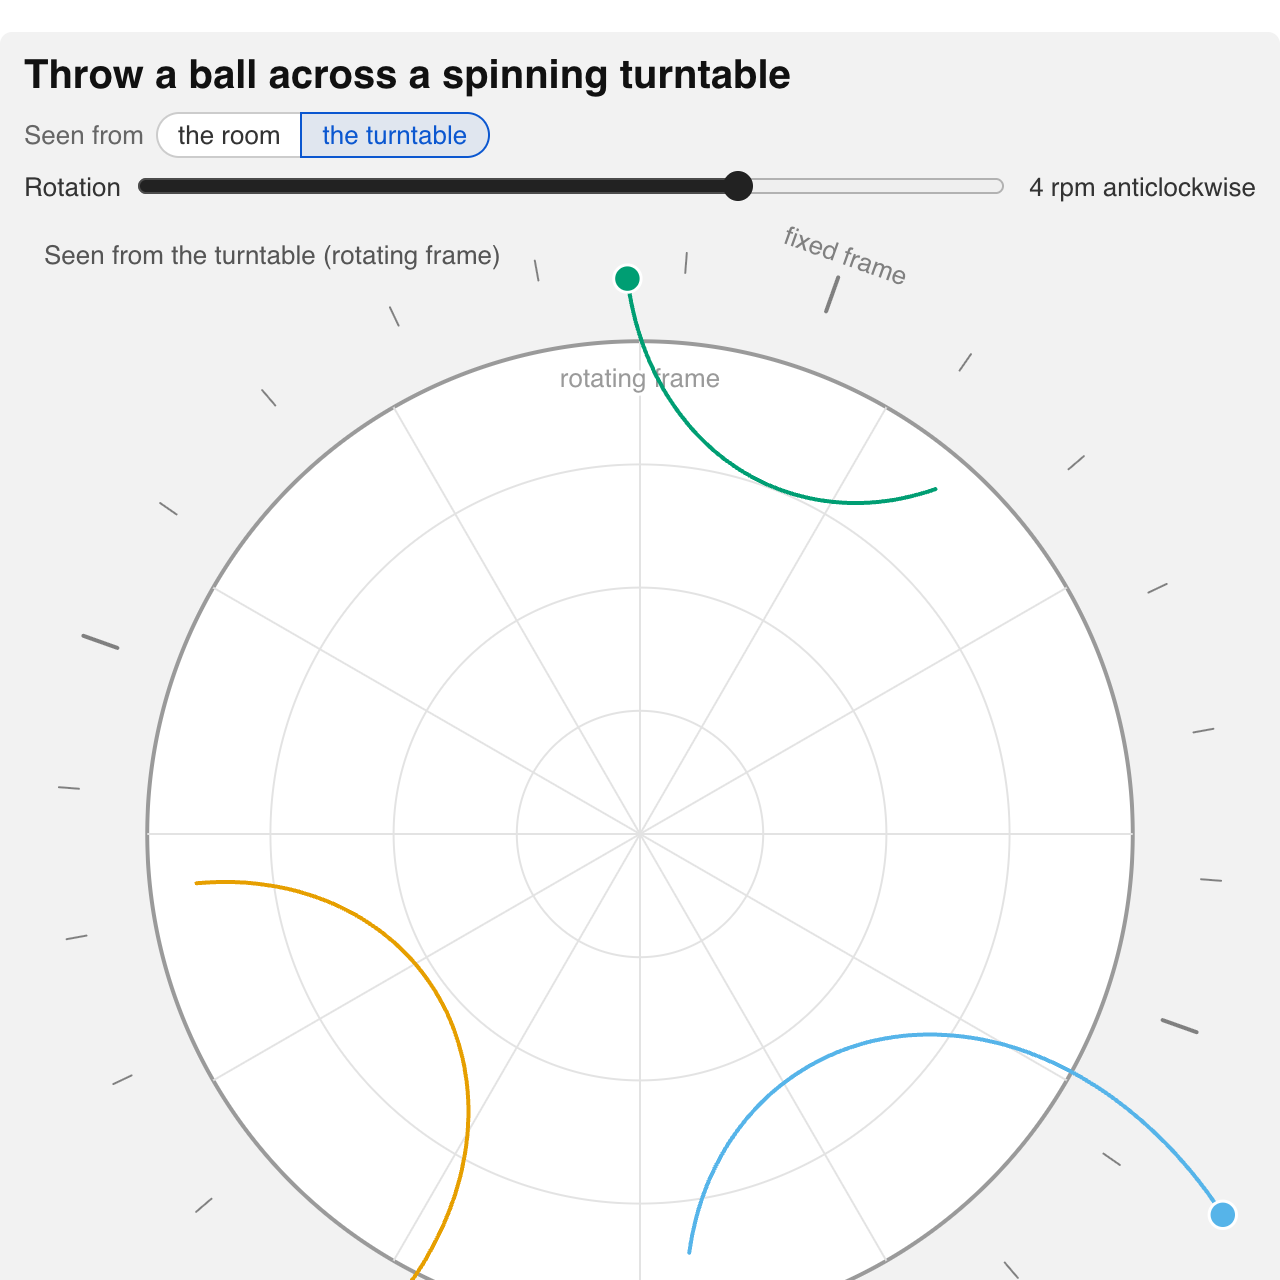
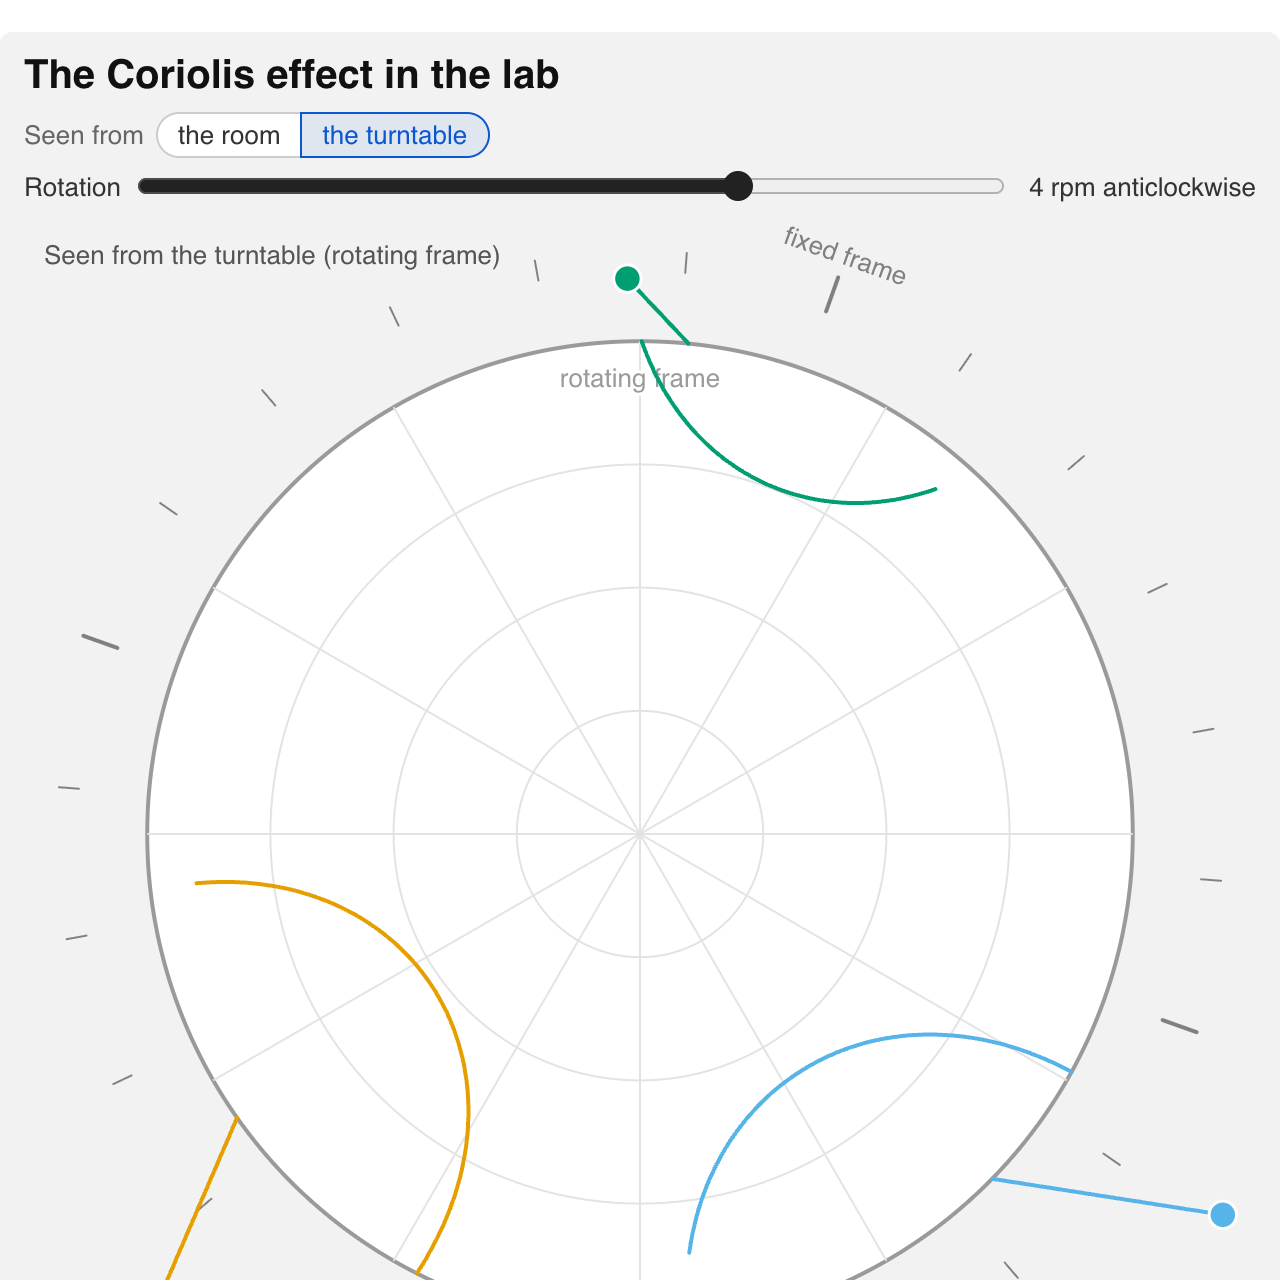
Turntable: the ball leaves paint on whatever it passes, a dashed true path, and throws that last until the ball has left
As in a lab with a wet ball: paint on the table turns with the table, paint on the floor
stays with the room. Each sample goes into the frame of whatever is under the ball, a run
of paint ends exactly at the rim and a new one starts there on the other side, and the
groups carry each frame's paint round with it. In the room view the paint on the table
curves as it is carried round while the floor's lies straight, and a dashed black line
shows the ball's actual straight path; in the turntable view the table's paint lies still
and the floor's goes round the other way. Balls sit in groups of their own so no paint
covers them.

A throw no longer has a fixed ten-second life, which cut a slow ball off before it had
even left the table: it stays until a second after the ball has left the square of the
picture and then fades over two, with a minute's cap for a ball that never leaves. The
title and note are the user's. The page describes the paint and the timing.

diff --git a/src/coriolis/widget.js b/src/coriolis/widget.js
@@ -5,12 +5,18 @@
 // speed, and that is the whole of the physics: every trajectory is x0 + v·t in inertial
 // coordinates, and the rotating view is the same points turned back by the angle the table
 // has turned through since. There is no integration and no force; the curve a rider on the
-// table sees is purely a consequence of looking from a turning platform. Both views draw
-// from the same sampled points (each sample keeps the table's angle at the time), so the
-// frame toggle switches instantly, mid-flight, and a change of rotation speed mid-flight
-// stays consistent too. Switching holds the picture where it is: the frame being let go
-// hands its screen angle to the one being taken hold of, so nothing jumps; the other frame
-// simply starts (or stops) turning.
+// table sees is purely a consequence of looking from a turning platform.
+//
+// The ball leaves paint where it passes, as in a lab: paint on the table turns with the
+// table, paint on the floor around it stays with the room. So in the room view the paint on
+// the table curves as the table carries it round while the paint on the floor lies straight,
+// and in the turntable view the paint on the table lies still while the floor's goes round
+// the other way. The room view also draws the ball's actual path, a dashed straight line,
+// while the ball is in the picture, and fades it once the ball has left. Each sample keeps
+// the table's angle at the time, so a change of rotation speed mid-flight stays consistent.
+// Switching views holds the picture where it is: the frame being let go hands its screen
+// angle to the one being taken hold of, so nothing jumps; the other frame simply starts (or
+// stops) turning.
 //
 // A throw is press, drag, release, anywhere on the figure; the ball starts where the pointer
 // went down and leaves along the drag at a speed proportional to its length. The thrower
@@ -21,8 +27,9 @@
 // table, which the room sees moving off at a tangent, and the table sees sliding outward:
 // a frictionless table cannot hold anything still.
 //
-// Up to MAX_THROWS balls at once, oldest dropped first. A trace lasts LIFE seconds and then
-// fades out over FADE more. Colours cycle through the Okabe–Ito palette, as the other
+// Up to MAX_THROWS balls at once, oldest dropped first. A throw stays until LINGER seconds
+// after its ball has left the picture and then fades out over FADE more (or after LIFE_MAX
+// seconds, for a ball that never leaves). Colours cycle through the Okabe–Ito palette, as the other
 // categorical widgets here do. Physics is in units of the disk radius and seconds, so a
 // resize mid-flight simply redraws everything at the new size.
 
@@ -36,8 +43,10 @@ const ROOM = "#808080";
 const COLORS = ["#E69F00", "#56B4E9", "#009E73", "#0072B2", "#D55E00", "#CC79A7", "#b39b00", "#000000"];
 
 const MAX_THROWS = 10;
-const LIFE = 10;         // s a trace is shown in full
-const FADE = 2;          // s it then takes to fade away
+const LINGER = 1;        // s a throw stays in full after its ball has left the picture...
+const FADE = 2;          // ...and then takes to fade away
+const LIFE_MAX = 60;     // s after which a throw fades anyway, for a ball that never leaves
+const DASH = "#222";
 const DRAG_GAIN = 2.5;   // disk radii per second of speed, per disk radius of drag
 const SPEED_MAX = 4;     // disk radii per second
 const RPM_MAX = 10;
@@ -45,6 +54,7 @@ const RPM_STEP = 0.5;
 const DISK_R = 0.40;     // disk radius as a fraction of the figure's side
 const ROOM_R = 0.465;    // the room's ring of marks
 const OUT_R = 1.9;       // disk radii from the centre beyond which a ball is out of the picture
+const HALF_SIDE = 0.5 / DISK_R; // the figure's half-side in disk radii
 
 const FIGURE_WIDTH = 640;
 const MIN_WIDTH = 320;
@@ -97,7 +107,7 @@ export function createCoriolisWidget({frame: initialFrame = "rotating", rpm: ini
 
   const title = document.createElement("div");
   title.style.cssText = "font-weight:bold;color:#111;line-height:1.2;padding:0 0 6px;";
-  title.textContent = "Throw a ball across a spinning turntable";
+  title.textContent = "The Coriolis effect in the lab";
   container.appendChild(title);
 
   // One row: the frame toggle on the left, the rotation slider on the right; they wrap onto
@@ -180,9 +190,7 @@ export function createCoriolisWidget({frame: initialFrame = "rotating", rpm: ini
   const note = document.createElement("div");
   note.style.cssText = "padding:10px 0 0;color:#888;font-size:14px;";
   note.textContent =
-    "Press, drag and release to throw a ball. Nothing pushes it sideways: seen from the room it rolls " +
-    "straight at a steady speed, and only seen from the turntable does it curve. Switching views holds the " +
-    "picture where it is and lets the other frame go. Traces fade after ten seconds.";
+    "Click and drag to throw a ball. It rolls straight in the room's fixed frame, but its trajectory looks curved in the turntable frame.";
   container.appendChild(note);
 
   function svgEl(tag, attrs = {}, parent) {
@@ -207,7 +215,7 @@ export function createCoriolisWidget({frame: initialFrame = "rotating", rpm: ini
   };
 
   // ---- scaffolding, rebuilt on resize ---------------------------------------------------------
-  let roomG, diskG, tracesFixedG, tracesRotG, dragG, dragLine, dragHead, dragBall, caption;
+  let roomG, diskG, tracesFixedG, tracesRotG, dashG, ballsFixedG, ballsRotG, dragG, dragLine, dragHead, dragBall, caption;
 
   function build() {
     svg.setAttribute("width", w);
@@ -254,13 +262,20 @@ export function createCoriolisWidget({frame: initialFrame = "rotating", rpm: ini
     }, diskG);
     diskLabel.textContent = "rotating frame";
 
-    // Traces are drawn in their own frame's coordinates and turned with that frame by the
-    // group's transform, so a path never needs rebuilding as the picture turns.
+    // Paint is drawn in the coordinates of whatever it is on and turned with it by the
+    // group's transform, so a path never needs rebuilding as the picture turns: the floor's
+    // paint and the dashed path in the room's groups, the table's paint in the table's. The
+    // balls come last, in a group of their own per frame, so that no paint covers them.
     const traceAttrs = {fill: "none", "stroke-width": 2, "stroke-linecap": "round", "stroke-linejoin": "round"};
     tracesFixedG = svgEl("g", traceAttrs, svg);
     tracesRotG = svgEl("g", traceAttrs, svg);
+    dashG = svgEl("g", {fill: "none", stroke: DASH, "stroke-width": 1.5, "stroke-dasharray": "6 5", "stroke-linecap": "round"}, svg);
+    ballsFixedG = svgEl("g", {}, svg);
+    ballsRotG = svgEl("g", {}, svg);
     for (const th of throws) {
-      th.path = svgEl("path", {stroke: th.color});
+      th.floorPath = svgEl("path", {stroke: th.color}, tracesFixedG);
+      th.diskPath = svgEl("path", {stroke: th.color}, tracesRotG);
+      th.dash = svgEl("path", {}, dashG);
       th.ball = svgEl("circle", {r: ballR, fill: th.color, stroke: "#fff", "stroke-width": 1.5});
       attach(th);
     }
@@ -302,10 +317,18 @@ export function createCoriolisWidget({frame: initialFrame = "rotating", rpm: ini
     const color = COLORS[nextColor++ % COLORS.length];
     const th = {
       x0, v, t0: simT, color,
-      fixed: [], rotating: [], // sampled positions, in each frame, as flat [x, y, x, y, ...]
-      dFixed: "", dRotating: "",
-      out: false,
-      path: svgEl("path", {stroke: color}),
+      // Paint, as runs of points: on the floor in room coordinates, on the table in the
+      // table's own, each run a flat [x, y, x, y, ...]. A new run starts at each crossing
+      // of the rim.
+      floorRuns: [], diskRuns: [],
+      dFloor: "", dDisk: "",
+      on: null,           // "disk" or "floor": where the last sample's paint went
+      prevP: null, prevTheta: 0,
+      out: false,         // beyond OUT_R: no more samples
+      leftT: null,        // when the ball left the picture, from which the throw's fade is timed
+      floorPath: svgEl("path", {stroke: color}, tracesFixedG),
+      diskPath: svgEl("path", {stroke: color}, tracesRotG),
+      dash: svgEl("path", {}, dashG),
       ball: svgEl("circle", {r: ballR, fill: color, stroke: "#fff", "stroke-width": 1.5}),
     };
     attach(th);
@@ -315,15 +338,16 @@ export function createCoriolisWidget({frame: initialFrame = "rotating", rpm: ini
     emit();
   }
 
-  // Puts a throw's path and ball in the group of the frame being shown.
+  // Puts a throw's ball in the group of the frame being shown.
   function attach(th) {
-    const g = frame === "fixed" ? tracesFixedG : tracesRotG;
-    g.append(th.path, th.ball);
+    (frame === "fixed" ? ballsFixedG : ballsRotG).appendChild(th.ball);
   }
 
   function removeThrow(i) {
     const [th] = throws.splice(i, 1);
-    th.path.remove();
+    th.floorPath.remove();
+    th.diskPath.remove();
+    th.dash.remove();
     th.ball.remove();
   }
 
@@ -333,21 +357,57 @@ export function createCoriolisWidget({frame: initialFrame = "rotating", rpm: ini
     return [th.x0[0] + th.v[0] * dt, th.x0[1] + th.v[1] * dt];
   };
 
-  // Records the ball's position in both frames and extends both traces. A trace is a set of
-  // points fixed in its own frame, so each view's path only ever grows at the end.
+  // Lays the ball's paint down where it is now: on the table, in the table's coordinates,
+  // or on the floor, in the room's. When the ball has crossed the rim since the last sample
+  // the run is ended exactly at the rim and a new one begun there on the other side.
   function sample(th) {
     const p = positionOf(th);
     if (Math.hypot(p[0], p[1]) > OUT_R) { th.out = true; return; }
-    const q = rot(p, -theta);
-    th.fixed.push(p[0], p[1]);
-    th.rotating.push(q[0], q[1]);
-    const cmd = th.fixed.length === 2 ? "M" : "L";
-    th.dFixed += cmd + pt(p);
-    th.dRotating += cmd + pt(q);
+    const on = Math.hypot(p[0], p[1]) <= 1 ? "disk" : "floor";
+    if (th.on && on !== th.on) {
+      const s = rimCrossing(th.prevP, p);
+      const pc = [th.prevP[0] + s * (p[0] - th.prevP[0]), th.prevP[1] + s * (p[1] - th.prevP[1])];
+      const thetaC = th.prevTheta + s * (theta - th.prevTheta);
+      paint(th, th.on, pc, thetaC);
+      newRun(th, on);
+      paint(th, on, pc, thetaC);
+    } else if (!th.on) {
+      newRun(th, on);
+    }
+    paint(th, on, p, theta);
+    th.on = on;
+    th.prevP = p;
+    th.prevTheta = theta;
+  }
+  function newRun(th, on) {
+    (on === "disk" ? th.diskRuns : th.floorRuns).push([]);
+  }
+  function paint(th, on, p, at) {
+    if (on === "disk") {
+      const q = rot(p, -at);
+      const run = th.diskRuns[th.diskRuns.length - 1];
+      th.dDisk += (run.length ? "L" : "M") + pt(q);
+      run.push(q[0], q[1]);
+    } else {
+      const run = th.floorRuns[th.floorRuns.length - 1];
+      th.dFloor += (run.length ? "L" : "M") + pt(p);
+      run.push(p[0], p[1]);
+    }
+  }
+  // Where the straight run from a to b crosses the rim, as a fraction of the way from a.
+  function rimCrossing(a, b) {
+    const dx = b[0] - a[0], dy = b[1] - a[1];
+    const A = dx * dx + dy * dy, B = 2 * (a[0] * dx + a[1] * dy), C = a[0] * a[0] + a[1] * a[1] - 1;
+    const disc = B * B - 4 * A * C;
+    if (A < 1e-12 || disc < 0) return 0.5;
+    const root = Math.sqrt(disc);
+    for (const s of [(-B - root) / (2 * A), (-B + root) / (2 * A)]) if (s >= 0 && s <= 1) return s;
+    return 0.5;
   }
 
   function draw(th) {
-    th.path.setAttribute("d", frame === "fixed" ? th.dFixed : th.dRotating);
+    th.floorPath.setAttribute("d", th.dFloor);
+    th.diskPath.setAttribute("d", th.dDisk);
     const p = positionOf(th);
     const q = frame === "fixed" ? p : rot(p, -theta);
     const visible = Math.hypot(q[0], q[1]) <= OUT_R;
@@ -357,25 +417,41 @@ export function createCoriolisWidget({frame: initialFrame = "rotating", rpm: ini
       th.ball.setAttribute("cx", sx.toFixed(1));
       th.ball.setAttribute("cy", sy.toFixed(1));
     }
-    const age = simT - th.t0;
-    const opacity = age < LIFE ? 1 : clamp(1 - (age - LIFE) / FADE, 0, 1);
-    th.path.setAttribute("opacity", opacity.toFixed(3));
-    th.ball.setAttribute("opacity", opacity.toFixed(3));
+    // The throw's fade is timed from the ball leaving the square of the picture. The ball's
+    // place on screen is the same expression in either view: the room's coordinates turned
+    // by the room's screen angle.
+    const onScreen = rot(p, roomAngle());
+    if (th.leftT == null && (Math.abs(onScreen[0]) > HALF_SIDE || Math.abs(onScreen[1]) > HALF_SIDE)) th.leftT = simT;
+    const opacity = fadeOf(th);
+    for (const el of [th.floorPath, th.diskPath, th.ball]) el.setAttribute("opacity", opacity.toFixed(3));
+
+    // The dashed path, in the room view only: the straight line from the start to the ball.
+    th.dash.style.display = frame === "fixed" ? "" : "none";
+    if (frame === "fixed") {
+      th.dash.setAttribute("d", `M${pt(th.x0)}L${pt(p)}`);
+      th.dash.setAttribute("opacity", opacity.toFixed(3));
+    }
+  }
+  // 1 until LINGER after the ball has left the picture (or LIFE_MAX after the throw), then
+  // down to 0 over FADE.
+  function fadeOf(th) {
+    const from = Math.min(th.leftT == null ? Infinity : th.leftT + LINGER, th.t0 + LIFE_MAX);
+    return simT < from ? 1 : clamp(1 - (simT - from) / FADE, 0, 1);
   }
 
-  // Rebuilds the traces from their samples, after a resize.
+  // Rebuilds the paint from its runs, after a resize.
   function redrawAll() {
     for (const th of throws) {
-      th.dFixed = pathFrom(th.fixed);
-      th.dRotating = pathFrom(th.rotating);
+      th.dFloor = pathFrom(th.floorRuns);
+      th.dDisk = pathFrom(th.diskRuns);
       draw(th);
     }
     placeFrames();
     drawDrag();
   }
-  function pathFrom(flat) {
+  function pathFrom(runs) {
     let d = "";
-    for (let i = 0; i < flat.length; i += 2) d += (i ? "L" : "M") + pt([flat[i], flat[i + 1]]);
+    for (const flat of runs) for (let i = 0; i < flat.length; i += 2) d += (i ? "L" : "M") + pt([flat[i], flat[i + 1]]);
     return d;
   }
 
@@ -383,10 +459,8 @@ export function createCoriolisWidget({frame: initialFrame = "rotating", rpm: ini
     // In the room view the table turns; in the turntable view the room turns the other way.
     const room = `rotate(${deg(roomAngle()).toFixed(2)} ${c} ${c})`;
     const disk = `rotate(${deg(diskAngle()).toFixed(2)} ${c} ${c})`;
-    roomG.setAttribute("transform", room);
-    tracesFixedG.setAttribute("transform", room);
-    diskG.setAttribute("transform", disk);
-    tracesRotG.setAttribute("transform", disk);
+    for (const g of [roomG, tracesFixedG, dashG, ballsFixedG]) g.setAttribute("transform", room);
+    for (const g of [diskG, tracesRotG, ballsRotG]) g.setAttribute("transform", disk);
   }
 
   // ---- the clock ------------------------------------------------------------------------------
@@ -396,7 +470,7 @@ export function createCoriolisWidget({frame: initialFrame = "rotating", rpm: ini
     placeFrames();
     for (let i = throws.length - 1; i >= 0; i--) {
       const th = throws[i];
-      if (simT - th.t0 >= LIFE + FADE) { removeThrow(i); continue; }
+      if (fadeOf(th) <= 0) { removeThrow(i); continue; }
       if (!th.out) sample(th);
       draw(th);
     }

diff --git a/src/coriolis/index.md b/src/coriolis/index.md
@@ -12,7 +12,7 @@ const coriolis = view(createCoriolisWidget());
 
 ## What to look for
 
-**Same ball, two paths.** Throw a ball from the edge of the table toward the centre, then switch between *the room* and *the turntable*. From the room the trace is a straight line; from the turntable it bends. Nothing about the ball changed; only the observer did. The curve is what a straight line looks like to someone who is turning.
+**The ball leaves paint.** As in a lab experiment with a wet ball, the ball paints its path on whatever it passes over: the paint on the table turns with the table, the paint on the floor around it stays where it is. Throw a ball from the edge of the table toward the centre and watch from *the room*: the dashed black line is the ball's actual path, dead straight, and it fades with the paint a moment after the ball has left the picture; the paint on the floor lies along it, but the paint on the table is carried round and curves. Switch to *the turntable* and the table's paint lies still, bent, while the floor's paint goes round the other way. Nothing about the ball changed; only the observer did. The curve is what a straight line looks like to someone who is turning.
 
 **It bends to the right.** With the table turning anticlockwise, as the slider opens, every throw bends to the right of where it was aimed, whichever way it was thrown. Drag the slider past zero to turn the table clockwise and every throw bends left. Looked at from above the North Pole, the Earth turns anticlockwise, so in the Northern Hemisphere moving air is deflected to the right and in the Southern Hemisphere to the left. That deflection is why air flowing toward a low-pressure centre spirals around it instead of filling it in, anticlockwise north of the equator and clockwise south of it, and why the trade winds come from the east.
 
@@ -22,9 +22,9 @@ const coriolis = view(createCoriolisWidget());
 
 ## About the figure
 
-The ball is frictionless, so its path in the room is exactly ${tex`\mathbf{x}(t) = \mathbf{x}_0 + \mathbf{v}\,t`}. The turntable view is the same points turned back through the angle the table has turned through since each one was passed, ${tex`\theta(t) = \Omega t`}, so the two traces are one set of samples drawn two ways, and the toggle switches between them with nothing recomputed. In the turntable view the thrower is a rider on the table: the drag is the ball's velocity relative to the table, and the table's own velocity at that point, ${tex`\boldsymbol{\Omega} \times \mathbf{r}`}, is added to it. That is why a ball always leaves the way it was thrown, and why a ball put down without a throw drifts off. In the room view the thrower stands on the floor and the drag is the ball's velocity outright.
+The ball is frictionless, so its path in the room is exactly ${tex`\mathbf{x}(t) = \mathbf{x}_0 + \mathbf{v}\,t`}. Each sample of the path is painted onto whatever is under the ball at the time: in room coordinates if it is on the floor, and if it is on the table in the table's own coordinates, the room point turned back through the angle ${tex`\theta(t) = \Omega t`} the table has turned through so far. A run of paint is ended exactly at the rim and a new one begun there when the ball crosses it. The two views then differ only in which of the two is held still on screen, so the toggle switches between them with nothing recomputed. In the turntable view the thrower is a rider on the table: the drag is the ball's velocity relative to the table, and the table's own velocity at that point, ${tex`\boldsymbol{\Omega} \times \mathbf{r}`}, is added to it. That is why a ball always leaves the way it was thrown, and why a ball put down without a throw drifts off. In the room view the thrower stands on the floor and the drag is the ball's velocity outright.
 
-What the rider sees is described in the rotating frame by two fictitious forces: the centrifugal force ${tex`m\Omega^2 \mathbf{r}`}, outward, and the Coriolis force ${tex`-2m\,\boldsymbol{\Omega} \times \mathbf{v}'`}, at right angles to the velocity ${tex`\mathbf{v}'`} seen on the table. The figure does not compute either; they are a way of accounting for the straight line from a turning point of view. The speed of a throw is 2.5 disk radii per second per disk radius of drag, capped at four radii per second, and the table turns at up to 10 turns per minute either way. A trace is kept for ten seconds and then fades over two; up to ten balls can be in the air at once, after which the oldest goes first.
+What the rider sees is described in the rotating frame by two fictitious forces: the centrifugal force ${tex`m\Omega^2 \mathbf{r}`}, outward, and the Coriolis force ${tex`-2m\,\boldsymbol{\Omega} \times \mathbf{v}'`}, at right angles to the velocity ${tex`\mathbf{v}'`} seen on the table. The figure does not compute either; they are a way of accounting for the straight line from a turning point of view. The speed of a throw is 2.5 disk radii per second per disk radius of drag, capped at four radii per second, and the table turns at up to 10 turns per minute either way. A throw, its paint and its dashed path together, stays until a second after the ball has left the square of the picture and then fades over two seconds, so a slow ball is followed for as long as it takes (a ball that never leaves fades after a minute); up to ten balls can be in the air at once, after which the oldest goes first.
 
 ## Embed this widget
 
